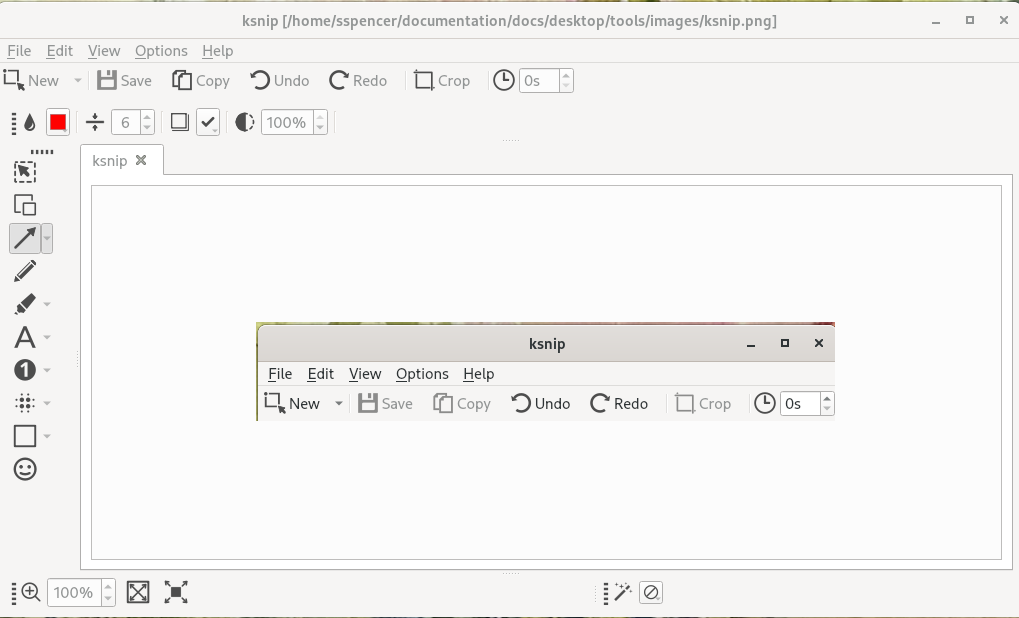
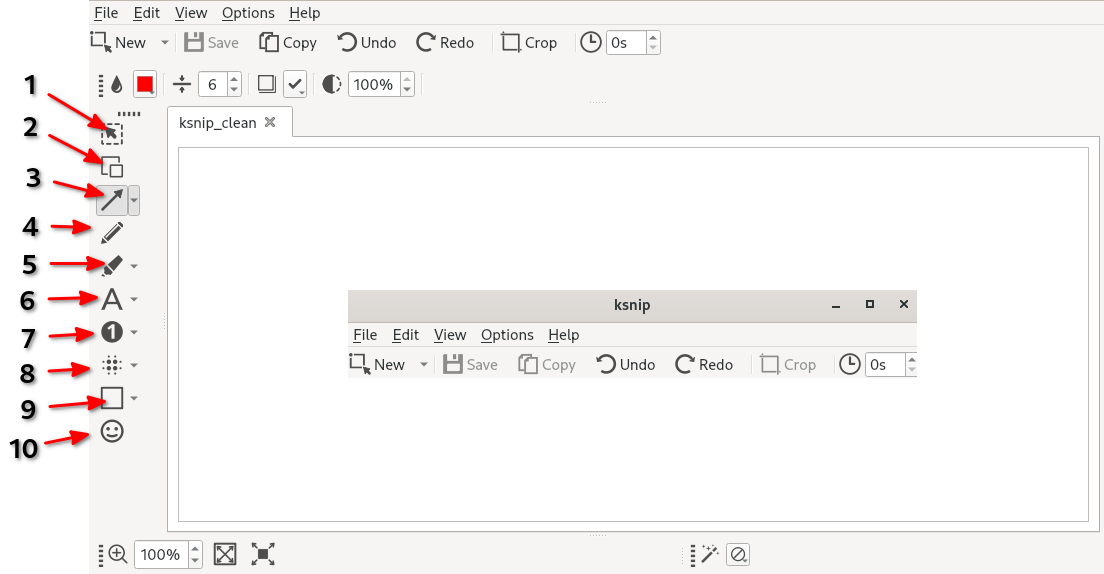
Modifications to `ksnip.md` * Number the menu selection items * Use a table to identify the options according to their number or assumed number (7a, 7b, etc) * clean up screen shots to remove personal information and remove unwanted background image artifacts * rather than note in each option when t

Changed region(s): [[0.0, 0.0, 1.0, 1.0], [0.2434, 0.5035, 0.8518, 0.6812]]

diff --git a/docs/desktop/tools/ksnip.md b/docs/desktop/tools/ksnip.md
@@ -51,48 +51,33 @@ sudo dnf install ksnip -y
 
 Ksnip has handy and intuitive tools to annotate screenshots.  In the image, down the left side are the options described below.
 
-The `Select` tool is used to make a selection. You can click an item to select it or click and drag to make a selection.
-
-The `Duplicate` tool is used to duplicate a selection. Click and drag to make a selection. Then click and drag the selection to move or further transform it.
-
-The `Arrow` tool is used to create arrows. Click and drag to create an arrow.
-
-The `Double Arrow` tool (chosen by clicking the down arrow next to the arrow): used to create double-sided arrows. Click and drag to create a double-sided arrow.
-
-The `Line` tool is used to create straight lines. Click and drag to create a line.
-
-The `Pen` tool makes strokes that resemble a pen. To use the pen, click and move the cursor across the screenshot. In the top toolbar, customization options exist to change the style and stroke of the pen.
-
-The `Marker Pen` tool makes strokes that resemble a highlighter. To use the marker pen, hold the click and drag the cursor across the screenshot. Customizations exist to change the opacity in the top toolbar.
-
-The `Marker Rectangle` tool is similar to the Marker Pen tool, but when you click and drag your cursor, the Marker Rectangle tool fills the rectangular selection. Customizations exist to change the opacity in the top toolbar.
-
-The `Marker Ellipse` tool is the Marker Pen tool, but when you left-click and drag your cursor, the Marker Ellipse tool will fill the ellipse made from the selection. Customizations exist to change the opacity in the top toolbar.
-
-The `Text` tool is used to annotate a screenshot with text. To use the Text tool, click anywhere on the image and begin typing. The top toolbar offers customizations to change the border, color, font family, font size, font style, and opacity of your text.
-
-The `Text Pointer` tool is used to annotate a screenshot with text attached to a pointer. Similar to the Text Arrow tool, the pointer should bring attention to the text.
-
-The `Text Arrow` tool is used to annotate a screenshot with text attached to an arrow. Similar to the Text Pointer tool, the pointer should bring attention to the text.
-
-The `Number` tool is used to annotate a screenshot with a numbered shape. Click anywhere on the image to place a numbered shape. The top toolbar offers customizations to change the color, width, and opacity.
-
-The `Number Pointer` tool is used to annotate a screenshot with a numbered shape attached to a pointer. Click anywhere on the image to place a numbered shape attached to a pointer. The top toolbar offers customizations to change the color, width, and opacity.
-
-The `Number Arrow` tool annotates a screenshot with a numbered shape attached to a pointer. Click anywhere on the image to place the numbered shape attached to an arrow. The top toolbar offers customizations to change the color, width, and opacity.
-
-The `Blur` tool blurs a selection. Left-click and drag anywhere on the screenshot to do this.
-
-The `Pixelate` tool is used to pixelate a selection. Left-click and drag anywhere on the screenshot to pixelate a selection.
-
-The `Rectangle` tool is used to create a rectangle from a selection. Left-click and drag anywhere on the screenshot to make a rectangular selection. The top toolbar offers customizations to change the color, width, and opacity.
-
-The `Ellipse` tool is used to create an ellipse from a selection. Left-click and drag anywhere on the screenshot to place an ellipse. The top toolbar offers customizations to change the color, width, and opacity.
-
-The `Sticker` tool places a sticker or emoji on a screenshot. Selecting the tool and clicking will place the sticker.
+| Option | Tool | Description                                                                                         |
+|--------|------| ----------------------------------------------------------------------------------------------------|
+| 1  | `Select` | tool is used to make a selection. Click an item to select it or click and drag to make a selection. |
+| 2  | `Duplicate` | tool is used to duplicate a selection. Click and drag to make a selection. Then click and drag the selection to move or transform it.|
+| 3a | `Arrow`  | the default arrow tool, which allows you to click and drag to create an arrow from a location to a new one |
+| 3b | `Double Arrow` | the second arrow option reached by clicking the down arrow next to the arrow tool. As the tools suggest, it has an arrow at both end points. |
+| 3c | `Line`   | the third option reached by clicking the down arrow next to the arrow tool. It replaces arrows with a simple line. |
+| 4  | `Pen`    | makes strokes that resemble a pen. To use the pen, click and move the cursor across the screenshot. ^1^ |
+| 5a | `Marker Pen` | the default marker tool makes strokes that resemble a highlighter. To use the marker pen, hold the click and drag the cursor across the screenshot. ^1^ |
+| 5b | `Marker Rectangle` | the second marker option reached by clicking the down arrow next to the marker tool. When you left-click and drag your cursor, the Marker Rectangle tool will fill the rectangle made from the selection. ^1^ |
+| 5c | `Marker Elipse`  | the third marker option reached by clicking the down arrow next to the marker tool. When you left-click and drag your cursor, the Marker Elipse tool will fill the elipse made from the selection. ^1^ |
+| 6a | `Text` | the default text tool, which allows you to annotate the screenshot with text. ^1^ |
+| 6b | `Text Pointer` | the second text option reached by clicking the down arrow next to the text tool. It attaches a pointer to draw attention to the text. ^1^ |
+| 6c | `Text Arrow` | the third text option reached by clicking the down arrow next to the text tool. It attaches an arrow to draw attention to the text. ^1^ |
+| 7a | `Number`  | the default number tool, adds a number to draw attention to and annotate the screenshot with numbers. ^1^ |
+| 7b | `Number Pointer` | the second option reached by clicking the down arrow next to the number tool. Adds a number with a pointer to further annotate a screenshot. ^1^ |
+| 7c | `Number Arrow` | the third option reached by clicking the down arrow next to the number tool. Adds a number with an arrow to further annotate a screenshot. ^1^ |
+| 8a | `Blur`  | the default blur tool, which allows you to blur portions of the screenshot by left-clicking and dragging. |
+| 8b | `Pixelate` | the second blur tool option reached by clicking the down arrow next to the blur tool. Pixelate anywhere on the screen by left-clicking and dragging. |
+| 9a | `Rectangle` | the default rectangle tool, allows you to click and drag to create a rectangle. ^1^ |
+| 9b | `Ellipse` | the second rectangle tool option, reached by clicking the down arrow next to the rectangle tool. Allows you to click and drag to create an ellipse on the screen. ^1^ |
+| 10 | `Sticker` | places a sticker or emoji on a screenshot. Selecting the tool and clicking will place the sticker. |
 
 ## Conclusion
 
 Ksnip is an excellent utility for annotating screenshots. It can also take screenshots, but this guide's main focus is on the annotation capabilities and tools provided by Ksnip.
 
 Check out the [Ksnip GitHub Repo](https://github.com/ksnip/ksnip){target="_blank"} to learn more about this excellent screenshot utility.
+
+**1.** Each of the tools that have descriptions followed by ==this superscript== (^1^), have various command options available in the top menu after making the tool selection. These change the opacity, border, font, font style, and other attributes.
